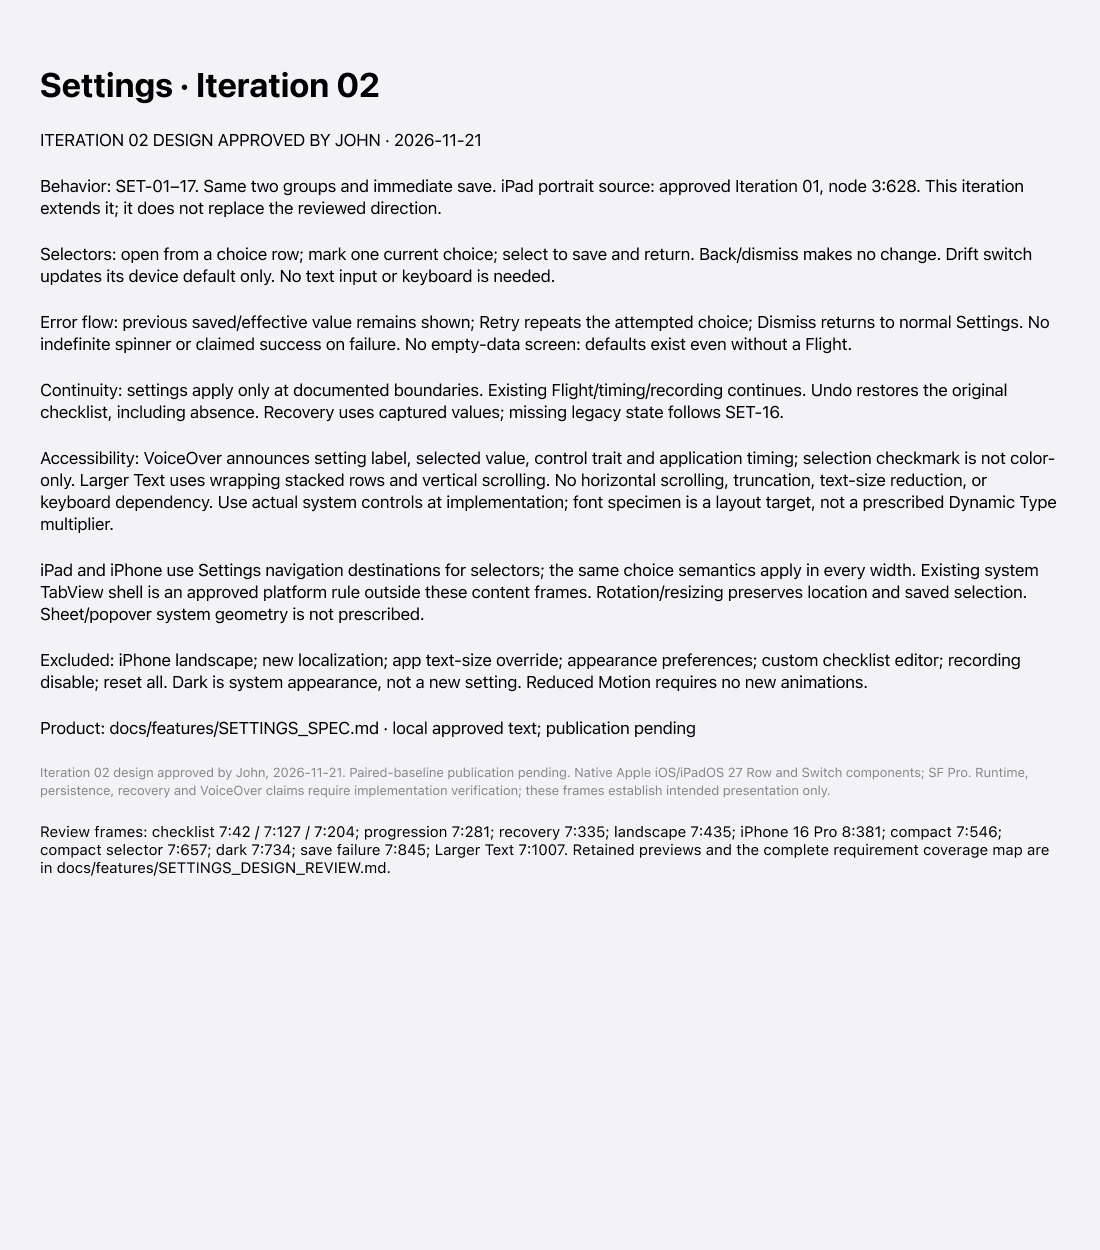
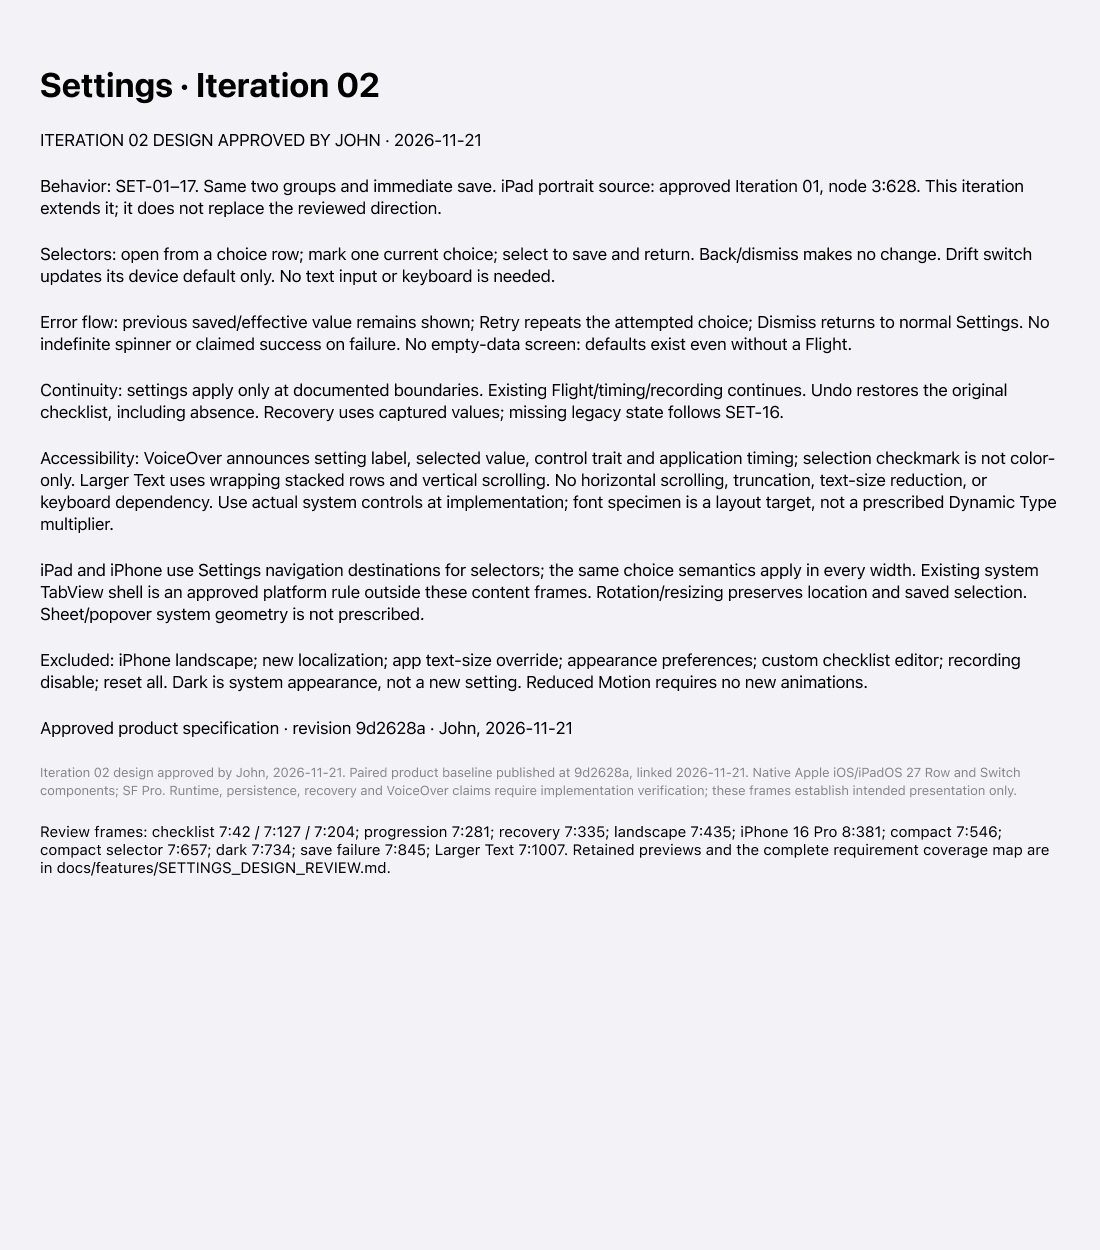
docs: link approved Settings design to published baseline

Changed region(s): [[0.0309, 0.5616, 0.9273, 0.6552]]

diff --git a/docs/features/SETTINGS_DELIVERY_PLAN.md b/docs/features/SETTINGS_DELIVERY_PLAN.md
@@ -3,7 +3,7 @@
 Status: breakdown and GitHub publication approved by John, 2026-11-21 (“I approve”).
 All four implementation contracts are published and read back. Product, Iteration 01
 direction, Iteration 02 design, and technical design are approved. Implementation
-is not approved; published-baseline and Cockpit warning-treatment gates remain.
+is not approved; the Cockpit warning-treatment gate remains.
 
 Authorities: [product](SETTINGS_SPEC.md), [design review and retained images](SETTINGS_DESIGN_REVIEW.md),
 [technical design](../technical/SETTINGS_TECHNICAL.md). Baseline inspected:
@@ -13,7 +13,7 @@ Authorities: [product](SETTINGS_SPEC.md), [design review and retained images](SE
 
 | Draft | Outcome | GitHub action after approval | Genuine blockers |
 | --- | --- | --- | --- |
-| S1 | Choose either bundled checklist or No checklist; persist it and preserve started-leg/recovered state | Updated [#161](https://github.com/johnbenz13/NavigationFlight/issues/161) | Published paired baseline; approved Cockpit persistence-warning treatment |
+| S1 | Choose either bundled checklist or No checklist; persist it and preserve started-leg/recovered state | Updated [#161](https://github.com/johnbenz13/NavigationFlight/issues/161) | Approved Cockpit persistence-warning treatment (published baseline resolved) |
 | S2 | Save a drift-line default for new/restarted Flights, retaining current-Flight override | [#190](https://github.com/johnbenz13/NavigationFlight/issues/190) | S1’s shared preference composition, storage and recording context |
 | S3 | Save Automatic/Manual progression for new/restarted Flights and recover it correctly | [#191](https://github.com/johnbenz13/NavigationFlight/issues/191) | S1’s shared preference composition, storage and recording context |
 | S4 | Choose 1/2/5/10-minute recovery for new recordings | [#192](https://github.com/johnbenz13/NavigationFlight/issues/192) | S1’s shared preference composition and storage |
@@ -35,7 +35,7 @@ not deferred to a catch-all testing ticket.
 The sections below preserve the approved source contracts published into the
 issues above. Each issue includes this shared contract and its scoped behavior.
 The parent preserves the full approved product and technical contracts while
-repository document publication remains pending.
+the immutable repository baseline is now published at `9d2628a5cf1db9a551f1852271f2b48f33747efd`.
 
 - Link product requirements, exact approved Figma nodes and the technical design.
   Replace local links with published immutable repository permalinks before marking
@@ -133,7 +133,7 @@ choice, but recovery must not invent its persistence.
 storage-format compatibility, preserving original delivery history. Record real
 schema decisions and extension steps. Do not mark other settings delivered.
 
-**Blockers.** Published paired baseline; Cockpit warning-copy/design decision.
+**Blocker.** Cockpit warning-copy/design decision. Published paired baseline resolved.
 Label stays `needs-info` until external blockers clear; do not retain the obsolete
 claim that the Settings selector itself lacks approval.
 
@@ -284,9 +284,9 @@ under repository policy, not planning approval.
    retain existing recording warning geometry, but use accurate cause-specific copy
    that says saved checklist/display state may be incomplete; do not say GPS track
    data was lost when it was not. This recommendation is not an approval.
-3. Commit/publish the approved spec, technical design and design evidence only with
-   explicit authorization; update Figma’s spec link to its immutable permalink and
-   record the paired baseline. Current uncommitted GitHub URLs are not ready links.
+3. **Done:** John authorized commit/push/PR/merge on 2026-11-21; the approved
+   artifact checkpoint `9d2628a5cf1db9a551f1852271f2b48f33747efd` is pushed and its product
+   permalink is recorded in both Figma indexes.
 4. **Done:** published #189 and #190–192, updated #161, and verified native
    child and blocker relationships.
 5. **Done:** read back bodies, labels and relationships; real issue IDs recorded.
@@ -299,7 +299,7 @@ parents and native blocking edges. No issue is marked ready-for-agent or closed.
 The issue publication approval is separate from implementation acceptance.
 
 No application code, builds, tests or simulator runs were performed. Local links
-and staged/unstaged whitespace checks passed. Planning remains partial until the
-published paired-baseline and Cockpit warning-treatment gates are resolved.
+and staged/unstaged whitespace checks passed. Planning remains partial until the Cockpit warning-treatment gate is resolved.
 John subsequently authorized commit, push, PR creation and merge on 2026-11-21.
-The publication checkpoint will record the immutable baseline after committing.
+Published checkpoint: [`9d2628a`](https://github.com/johnbenz13/NavigationFlight/blob/9d2628a5cf1db9a551f1852271f2b48f33747efd/docs/features/SETTINGS_SPEC.md).
+The PR publication and merge record is available in Git history and the linked tracker.

diff --git a/docs/features/SETTINGS_SPEC.md b/docs/features/SETTINGS_SPEC.md
@@ -19,7 +19,8 @@ Implementation remains unapproved; readiness gates are recorded in the delivery 
   [#190](https://github.com/johnbenz13/NavigationFlight/issues/190),
   [#191](https://github.com/johnbenz13/NavigationFlight/issues/191),
   [#192](https://github.com/johnbenz13/NavigationFlight/issues/192).
-- Next: resolve warning treatment and published paired baseline per the
+- Paired baseline published: product/design approvals linked to commit `9d2628a5cf1db9a551f1852271f2b48f33747efd` on 2026-11-21.
+- Next: resolve Cockpit warning treatment per the
   [delivery plan](SETTINGS_DELIVERY_PLAN.md); implementation approval remains separate.
 - Related ticket: [#161](https://github.com/johnbenz13/NavigationFlight/issues/161).
   Updated to the approved three-choice contract; original G16 trace preserved.
@@ -195,7 +196,8 @@ approval, implementation authorization, and acceptance remain separate.
 
 ## Figma
 
-- Design status: approved (visible proposal); paired-baseline publication pending.
+- Design status: approved; paired baseline published and linked in Figma.
+- Approved product revision: [9d2628a](https://github.com/johnbenz13/NavigationFlight/blob/9d2628a5cf1db9a551f1852271f2b48f33747efd/docs/features/SETTINGS_SPEC.md), John’s 2026-11-21 approved product text.
 - Direction status: Iteration 01 approved by John, 2026-11-21.
 - Candidate complete iteration: [Iteration 02 coverage index](https://www.figma.com/design/HludOIJu7Ko46X4pmkGvTx?node-id=7-1029).
 - Coverage map and previews: [Settings design review](SETTINGS_DESIGN_REVIEW.md).
@@ -234,11 +236,12 @@ Visible requirements: SET-01–03, SET-05–12 (main-screen presentation), SET-1
 Expanded states now appear in Iteration 02; see its coverage map for the precise
 distinction between inspected presentation and future runtime verification.
 
-The Figma index links to the intended shared specification URL, explicitly marked
-pending publication because this specification is local and uncommitted. John authorized commit, push, PR creation and merge of this planning work on
-2026-11-21. The immutable product-spec permalink
-remains a paired-baseline approval prerequisite; the inspected code revision alone
-does not identify this newly approved product text.
+The Figma indexes now link to the immutable approved product revision
+[`9d2628a`](https://github.com/johnbenz13/NavigationFlight/blob/9d2628a5cf1db9a551f1852271f2b48f33747efd/docs/features/SETTINGS_SPEC.md).
+Product, main-screen direction and Iteration 02 were approved by John on
+2026-11-21; the paired baseline was linked on the same date under his separate
+commit/push/PR/merge authorization. Cockpit presentation-persistence warning copy
+remains a separate implementation blocker.
 
 ## Later planning stages
 

diff --git a/docs/features/SETTINGS_DESIGN_REVIEW.md b/docs/features/SETTINGS_DESIGN_REVIEW.md
@@ -2,8 +2,7 @@
 
 Status: Iteration 02 approved by John on 2026-11-21 (“I approve”). Product and
 Iteration 01 main-screen direction were also explicitly approved. No implementation
-or technical-design approval is implied. Final paired-baseline publication remains
-pending; see Evidence and limits.
+or technical-design approval is implied. The paired baseline is published and linked in Figma; see Evidence and limits.
 
 Authority: [Settings product spec](SETTINGS_SPEC.md), SET-01–17. Stable Figma file:
 [NavigationFlight · Settings](https://www.figma.com/design/HludOIJu7Ko46X4pmkGvTx).
@@ -87,11 +86,12 @@ persistence check, or assistive-technology runtime check was performed or claime
 Current code inspection remains anchored at `3c59aa835aeff27c558c7279ea649faa5c2439c0`.
 A Figma node does not prove any timing, storage, migration, undo, or recovery behavior.
 
-The product text is approved locally. The intended shared GitHub spec URL is
-marked pending publication in Figma; an immutable published specification permalink
-is still required before recording final paired-baseline approval. Design review did not itself authorize commit or push; John separately authorized
-publication through commit, push, PR and merge on 2026-11-21. This publication prerequisite is separate
-from approval of the visible design direction and complete proposal.
+The approved product text is published at
+[9d2628a](https://github.com/johnbenz13/NavigationFlight/blob/9d2628a5cf1db9a551f1852271f2b48f33747efd/docs/features/SETTINGS_SPEC.md).
+Both Figma indexes link to this immutable revision. Product and design approvals
+were granted by John on 2026-11-21; paired-baseline publication was recorded that
+date under his separate commit/push/PR/merge authorization. This publication does
+not resolve the separately identified Cockpit persistence-warning copy blocker.
 
 Final screenshot SHA-256 values:
 
@@ -109,4 +109,4 @@ Final screenshot SHA-256 values:
[5 lines of base64/hex data omitted]

diff --git a/docs/technical/SETTINGS_TECHNICAL.md b/docs/technical/SETTINGS_TECHNICAL.md
@@ -250,9 +250,10 @@ John approved file-backed independent preferences, app-owned Observation state,
 explicit capture inputs, and schema-3 recording/replay additions.
 No broad domain or map refactor is proposed.
 
-Before implementation tickets are ready: audit the recording degradation-state
-reuse noted above and resolve any resulting design gap; publish the approved spec/design
-permalink baseline under John’s separate 2026-11-21 commit/push/PR/merge authorization, and retain the approved vertical-slice breakdown. The approved tickets are now
+Before implementation tickets are ready: resolve the recording degradation-state
+design gap noted below. The approved spec/design permalink baseline is published
+at `9d2628a5cf1db9a551f1852271f2b48f33747efd` under John’s separate 2026-11-21
+commit/push/PR/merge authorization. The approved tickets are
 published under #189; #161 was updated in place to the three-choice contract.
 
 
